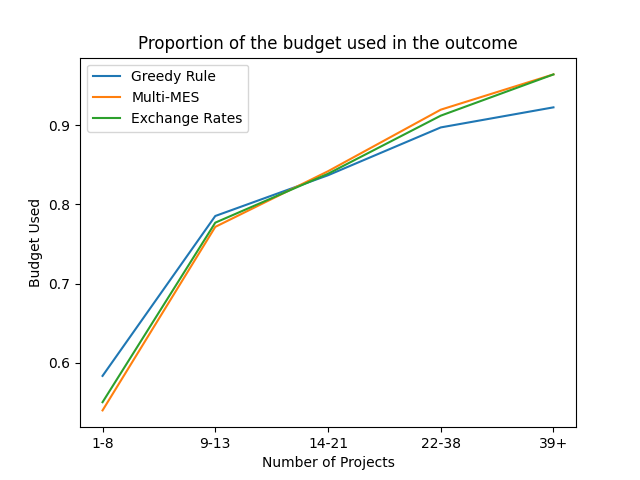
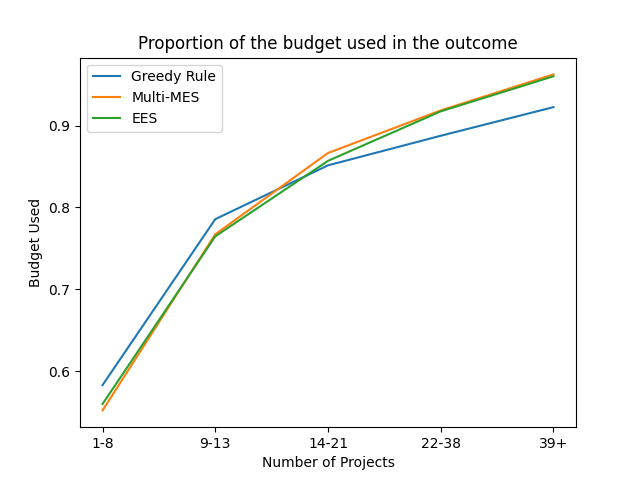
Redone graphs to say EES instead of exchange rates

diff --git a/environment/main.py b/environment/main.py
@@ -31,12 +31,15 @@ def batch_run(seed):
     rand.seed(seed)
 
     t1 = time()
-    #run_test_projects(one_ejr_test, './environment/datasets_extended', './environment/plots_batch', True, False)
-    #run_test_projects(all_ejr_test, './environment/datasets_extended', './environment/plots_batch', True, False)
-    #run_test_projects(cejr_test, './environment/datasets_extended', './environment/plots_batch', True, False)
+    #run_test_projects(runtime_test, './environment/datasets_extended', './environment/plots_batch', True, True)
+    run_test_projects(budget_test, './environment/datasets_extended', './environment/plots_batch', True, False)
+    run_test_projects(exclusion_test, './environment/datasets_extended', './environment/plots_batch', True, False)
+    run_test_projects(one_ejr_test, './environment/datasets_extended', './environment/plots_batch', True, False)
+    run_test_projects(all_ejr_test, './environment/datasets_extended', './environment/plots_batch', True, False)
+    run_test_projects(cejr_test, './environment/datasets_extended', './environment/plots_batch', True, False)
     #run_test_resources(cejr_test, 10, './environment/datasets_extended', './environment/plots_batch', True, False)
     #run_test_resources(all_ejr_test, 10, './environment/datasets_resources', './environment/plots_batch', True, False)
-    run_test_resources(one_ejr_test,10, './environment/datasets_resources', './environment/plots_batch', True, False)
+    #run_test_resources(one_ejr_test,10, './environment/datasets_resources', './environment/plots_batch', True, False)
     #run_test_aggregation(exclusion_test, [max, min, np.median, np.mean], './environment/datasets_extended', './environment/plots_batch', True, False)
     #run_test_aggregation(cejr_test, [max, min, np.median, np.mean], './environment/datasets_extended', './environment/plots_batch', True, False)
     #run_test_aggregation(False, [max, min, np.median, np.mean], './environment/datasets_extended', './environment/plots_batch', True, True)

diff --git a/environment/experiments.py b/environment/experiments.py
@@ -304,6 +304,7 @@ def run_test_projects(test_name, data_location:str, output_folder:str, running_p
         if running_print:
             counter += 1
             print("-----------------------------------")
+            print(f"Test: {test_name.__name__}")
             print(path)
             print(f"Projects {projects}")
             print(f"Votes: {voters}")
@@ -312,15 +313,15 @@ def run_test_projects(test_name, data_location:str, output_folder:str, running_p
 
         # Add the outcome of the test to the dictionary
         if running_print:
-            print("Greedy Rule", end='')
+            print("Greedy Rule")
         g[project_num_split(projects)].append(test_name(instance.copy(), profile.copy(), greedy_rule))
 
         if running_print:
-            print(" Done\nMulti-MES", end='')
+            print(" Done\nMulti-MES")
         mes[project_num_split(projects)].append(test_name(instance.copy(), profile.copy(), multi_method_equal_shares))
 
         if running_print:
-            print(" Done\nExchange Rates", end='')
+            print(" Done\nExchange Rates")
         er[project_num_split(projects)].append(test_name(instance.copy(), profile.copy(), exchange_rates_2d))
         if running_print:
             print(" Done")
@@ -331,7 +332,7 @@ def run_test_projects(test_name, data_location:str, output_folder:str, running_p
     # Create the dict for the graph builder and then create the graph
     graph_values = {'Greedy Rule': dict([(k, np.mean(g[k])) for k in g.keys()]),
                     'Multi-MES': dict([(k, np.mean(mes[k])) for k in mes.keys()]),
-                    'Exchange Rates': dict([(k, np.mean(er[k])) for k in er.keys()])}
+                    'EES': dict([(k, np.mean(er[k])) for k in er.keys()])}
     test_meta = test_metadata(test_name, 'projects')
 
     output_file = open('outcomes.txt','a')
